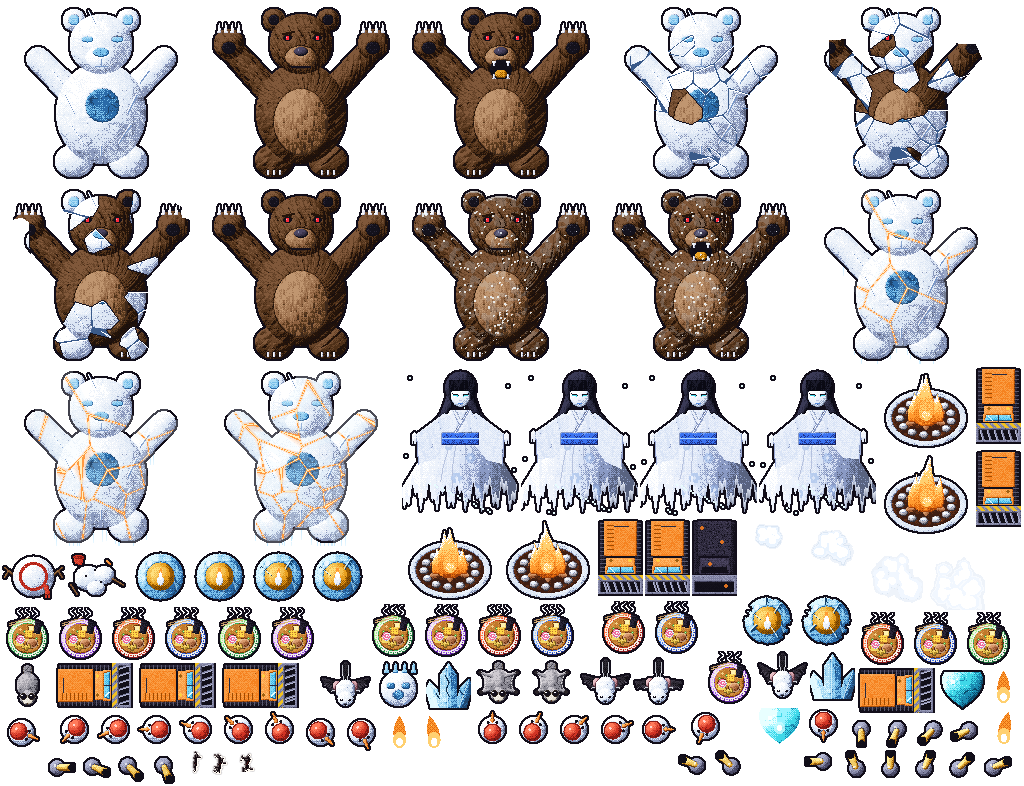
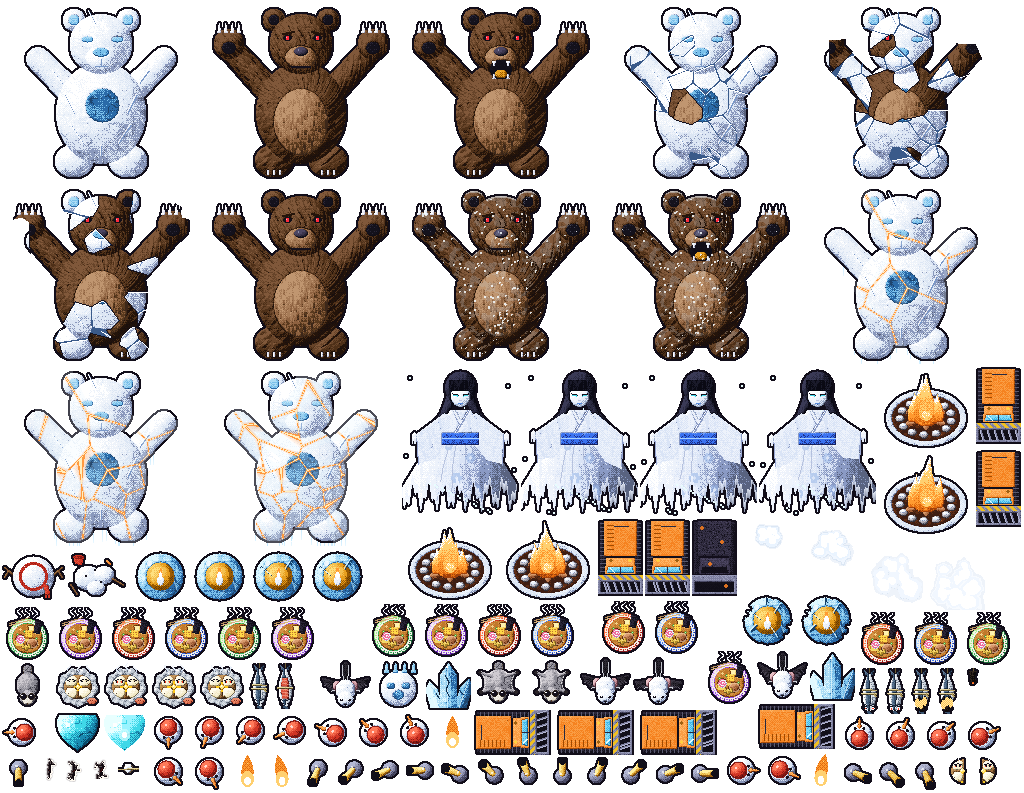
Stronger waves, steps 2-5 for Sapporo: into the game, the jaga-bata in place of the snowman (accepted). The designs in Sapporo's atlas, its skin (a straw line, the salmon bound and split open in turn; no cart: Sapporo has its snowploughs). 2 lines of salted salmon by Nijo market, over the avenue at 

Changed region(s): [[0.0, 0.0305, 1.0, 1.0], [0.0312, 0.0916, 0.0625, 0.1221]]

diff --git a/src/game/enemyArt.js b/src/game/enemyArt.js
@@ -152,6 +152,7 @@ export const CITY_ANIMS = {
   ok_yashi: [four('ok_yashi'), 4], ok_yashi_one: [['ok_yashi_one_0', 'ok_yashi_one_1'], 6], ok_gyu_run: [['ok_gyu_run_0', 'ok_gyu_run_1'], 8],
   ng_manju: [four('ng_manju'), 4], ng_manju_one: [['ng_manju_one_0', 'ng_manju_one_1'], 6],
   k_iga: [four('k_iga'), 4], k_iga_one: [['k_iga_one_0', 'k_iga_one_1'], 6],
+  sp_jaga: [four('sp_jaga'), 4], sp_jaga_one: [['sp_jaga_one_0', 'sp_jaga_one_1'], 6],
   ...Object.fromEntries([0, 1, 2, 3].flatMap((st) => [[`o_ferry_${st}`, [[`o_ferry_${st}_0`, `o_ferry_${st}_1`], 4]], [`ky_hoko_${st}`, [[`ky_hoko_${st}_0`, `ky_hoko_${st}_1`], 6]], [`ok_gyu_${st}`, [[`ok_gyu_${st}_0`, `ok_gyu_${st}_1`], 3]], [`ng_kujira_${st}`, [[`ng_kujira_${st}_0`, `ng_kujira_${st}_1`], 5]], [`k_hakucho_${st}`, [[`k_hakucho_${st}_0`, `k_hakucho_${st}_1`], 4]]])),
   // Fukuoka
   f_tobiume: [four('f_tobiume'), 12], f_goma: [four('f_goma'), 16], f_fugu: [four('f_fugu'), 3],

diff --git a/src/game/skins.js b/src/game/skins.js
@@ -66,6 +66,8 @@ export const SKINS = {
     heavy: { frame: 'yukionna_0', anim: 'yukionna', kind: 'yukionna' },
     turret: { base: 'yuki_base', head: 'yuki_head_', wreck: 'yuki_wreck', pattern: 'lob' },
     plow: { frame: 'plow_d_0', anim: 'plow_d', side: 'plow_r_0', sideAnim: 'plow_r', chute: 'plow_chute_', wreck: 'plow_wreck' },
+    chain: { frame: 'sp_sake_0', frames: ['sp_sake_0', 'sp_sake_1'], eye: 'sp_sake_eye_', lit: 'sp_sake_lit_', burnt: 'sp_sake_burnt', pole: 'sp_pole', rope: 0xb8a060 }, // salted salmon hung over the avenue by Nijo market (enemies/chainSplitCart.js)
+    split: { frame: 'sp_jaga_0', anim: 'sp_jaga', one: 'sp_jaga_one_0', oneAnim: 'sp_jaga_one', sound: 'squelch' }, // jaga-bata from the Snow Festival's stalls
   },
   // Kagoshima: bombs that split, aim-line snipers, lidded jars, surfacing kappa, melting shirokuma
   kagoshima: {

diff --git a/docs/plan-silniejsze-fale.md b/docs/plan-silniejsze-fale.md
@@ -171,3 +171,4 @@ Bot nie zestrzeliwuje ich częściej, tylko odlatują z mniejszym zapasem: walki
 | 2026-11-19 | Claude | 1 (Kawaguchiko) | Projekty grafiki do akceptacji, `tools/art/kawaguchiko/newfoes.mjs`: karpie koinobori na linie nad Honchō-dōri, między masztami z wiatraczkami yaguruma i złotą kulą; wiatr wieje wzdłuż linii, więc każdy karp ciągnie od obręczy ku następnemu (czarny ojciec, czerwona matka, niebieskie dziecko na zmianę); budzi się czarny: namalowane oko robi się czerwone, pyszczek się rozdziawia (strzela); płonący od ogona, zostaje zwęglona obręcz ze strzępem. Łupina kasztana z korytarza klonów, pęknięta na cztery, z dwoma błyszczącymi kasztanami, które na zmianę łypią na czerwono, z liściem klonu na kolcach; osobno kasztan z jasną podstawą, kępką i kolcem w boku. Rowerek wodny-łabędź płynący w dół jeziora: białe ciało, skrzydła wzdłuż burt, kokpit z dwoma różowymi siedzeniami, pedałami i sterem, długa szyja i głowa z pomarańczowym dziobem, koło łopatkowe pod ogonem w pianie, kilwater; rozpad: szyja wybita na bok i pęknięta u nasady (oczy czerwone), urwane koło (korba się kiwa, łódź zbacza), rozbita burta i woda w kokpicie; wrak pod wodą: widać tylko zgiętą szyję z głową, czubek skrzydła i poduszkę, rozchodzą się kręgi. Jeszcze nie w atlasie ani w grze. | Łabędź jest większy od rowerków przy przystani (to yokai). |
 | 2026-11-19 | Claude | 2-5 (Kawaguchiko) | Grafika w atlasie `bg/stage10`, skórka (konopna linka, karpie na zmianę czerwony, czarny i niebieski; budzi się czarny; trzask łupiny). 3 linki z karpiami nad Honchō-dōri (2,6 s, 7,8 s i 14,2 s; maszty na dachach i w lesie Arakurayamy, z dala od torów, ulic poprzecznych i brązowej torii). 12 łupin kasztanów w miejscu fal popcornu: po 4 w Fujiyoshidzie, w Kawaguchi i w korytarzu klonów, żadnej nad jeziorem. Łabędź w 80 s na otwartym jeziorze, z dala od Unoshimy, przed ciszą przed zającem. Popcorn 44%. Bot (4 bronie, moc 4), trafienia przed bossem: 13 → 10 na normalnym, 2 → 5 na łatwym (w granicach rozrzutu); liny, łupiny i łabędź zestrzelone za każdym razem. Test: kawaguchikoWaves. | |
 | 2026-11-19 | Claude | 1 (Sapporo) | Projekty grafiki do akceptacji, `tools/art/sapporo/newfoes.mjs`: solone łososie (shiozake) powieszone za ogony na linie nad aleją przy targu Nijō, między słupkami z czapami śniegu; na zmianę jeden owinięty słomianym sznurem (aramaki) i jeden rozpłatany, z czerwonym mięsem rozpartym bambusowym patyczkiem; obudzony otwiera oko i rozdziawia zakrzywioną szczękę (strzela); wędzący się i płonący, zostaje zwęglony ogon na sznurku. Zamiast bałwana (Sapporo ma już bałwana jako działko) propozycja pary: jaga-bata ze straganów festiwalu śniegu, ziemniak w folii nacięty na krzyż, kostka masła topiąca się w nacięciach, łyżka shiokary z kałamarnicy obok, para w mrozie; po trafieniu rozpada się na dwie połówki, z których kapie masło. Jeszcze nie w atlasie ani w grze. | Para do decyzji: jaga-bata zamiast bałwana. |
+| 2026-11-19 | Claude | 2-5 (Sapporo) | Przyjęte: łososie i jaga-bata zamiast bałwana. Grafika w atlasie `bg/stage3`, skórka (słomiany sznur, łososie na zmianę owinięty i rozpłatany; bez wozu: Sapporo ma pługi). 2 liny z łososiami przy targu Nijō: nad aleją x 150 (75,2 s) i nad aleją x 90 (77,2 s), słupki na dachu hali targu i po drugiej stronie alei. 20 jaga-bat w miejscu fal popcornu, w całym mieście, 7 nad festiwalem śniegu w Ōdōri. Popcorn 72% → 45%. Bot (4 bronie, moc 4), trafienia przed bossem na przelot: normalny 13,3 → 11 (4 przeloty), łatwy 7,0 → 8,9 (11 przelotów; najwięcej przybyło w Ōdōri). Liny i jaga-baty zestrzelone prawie za każdym razem (1 połówka uciekła w 8 przelotach). Test: sapporoWaves. | Łatwy trochę trudniejszy, jak na Okinawie i w Nagasaki. |
